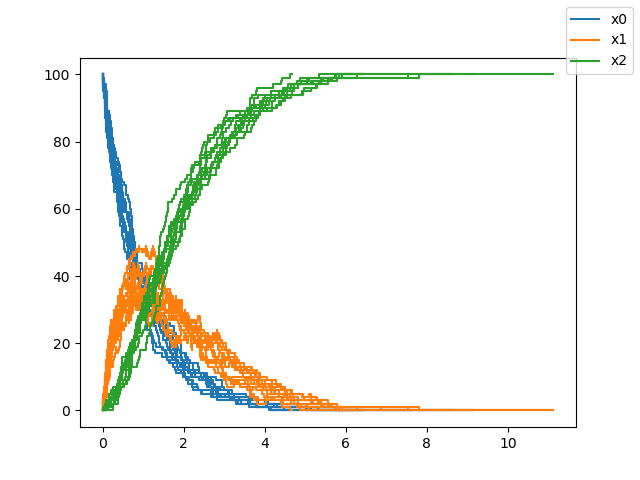
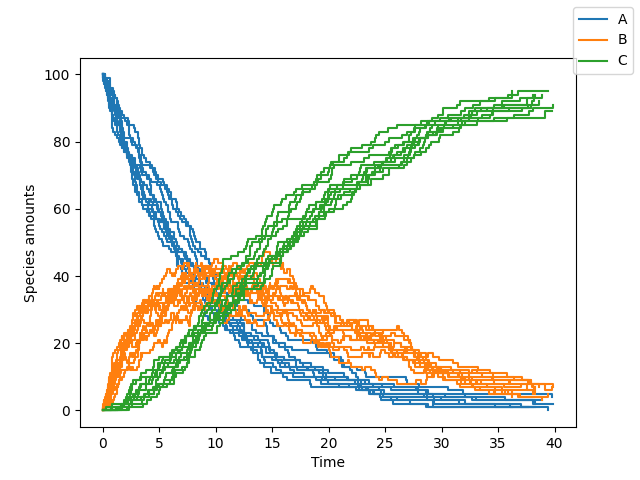
Docs: Update examples section

diff --git a/docs/examples.rst b/docs/examples.rst
@@ -14,18 +14,24 @@ Zero order system
 
 This can be coded up with::
 
-    >>> import numpy as np
     >>> from pyssa import Simulation
-    >>> V_r = np.array([[0]])
-    >>> V_p = np.array([[1]])
-    >>> X0 = np.array([100], dtype=np.int64)
-    >>> k_det = np.array([1.1])
-    >>> sim = Simulation(V_r, V_p, X0, k_det)
+    >>> model_str = """
+            const compartment comp1;
+            comp1 = 1.0; # volume of compartment
+
+            r1:  => A; k1;
+
+            k1 = 1.1;
+            chem_flag = false;
+
+            A = 100;
+        """
+    >>> sim = Simulation.load_model(model_str, "ModelString")
     >>> sim.simulate()
     >>> sim.plot()
 
 .. image:: ../docs/images/ex_0.png
-    :scale: 70%
+    :scale: 80%
     :align: center
     :alt: Plot of a zero order system.
 
@@ -42,28 +48,35 @@ First order system
 
 This can be coded up with::
 
-    >>> import numpy as np
     >>> from pyssa import Simulation
-    >>> V_r = np.array([[1], [0]])
-    >>> V_p = np.array([[0], [1]])
-    >>> X0 = np.array([100, 20], dtype=np.int64)
-    >>> k_det = np.array([1.1])
-    >>> sim = Simulation(V_r, V_p, X0, k_det)
+    >>> model_str = """
+            const compartment comp1;
+            comp1 = 1.0; # volume of compartment
+
+            r1: A => B; k1;
+
+            k1 = 1.1;
+            chem_flag = false;
+
+            A = 100;
+            B = 20;
+        """
+    >>> sim = Simulation.load_model(model_str, "ModelString")
     >>> sim.simulate()
     >>> sim.plot()
 
 .. image:: ../docs/images/ex_1a.png
-    :scale: 70%
+    :scale: 80%
     :align: center
     :alt: Plot of a first order system.
 
 Suppose you want to use the ``tau_leaping`` algorithm, run 20 repetitions and plot only species :math:`B`. Then do::
 
     >>> sim.simulate(algorithm="tau_leaping", n_rep=20)
-    >>> sim.plot(plot_indices=[1], names=["B"])
+    >>> sim.plot(species_names=["B"], new_names=["Species B"])
 
 .. image:: ../docs/images/ex_1b.png
-    :scale: 70%
+    :scale: 80%
     :align: center
     :alt: Plot of a first order system with more repetitions.
 
@@ -87,35 +100,61 @@ Enzyme kinetics (second order system with multiple reactions)
 
 This can be coded up with::
 
-    >>> import numpy as np
     >>> from pyssa import Simulation
-    >>> V_r = np.array([[1, 0, 0], [1, 0, 0], [0, 1, 1], [0, 0, 0]])
-    >>> V_p = np.array([[0, 1, 0], [0, 1, 1], [1, 0, 0], [0, 0, 1]])
-    >>> X0 = np.array([200, 50, 0, 0], dtype=np.int64)
-    >>> k_det = np.array([0.006, 0.005, 0.1])
-    >>> sim = Simulation(V_r, V_p, X0, k_det)
+    >>> model_str = """
+            const compartment comp1;
+            comp1 = 1.0; # volume of compartment
+
+            binding: S + E => SE; k1;
+            dissociation: SE => S + E; k2;
+            conversion: SE => P + E; k3;
+
+            k1 = 0.006;
+            k2 = 0.005;
+            k3 = 0.1;
+            chem_flag = false;
+
+            S = 200;
+            E = 50;
+            SE = 0;
+            P = 0;
+        """
+    >>> sim = Simulation.load_model(model_str, "ModelString")
     >>> sim.simulate(max_t=50, n_rep=10)
-    >>> sim.plot(names=["S", "E", "SE", "P"])
+    >>> sim.plot()
 
 .. image:: ../docs/images/ex_2a.png
-    :scale: 70%
+    :scale: 80%
     :align: center
     :alt: Plot of enzyme kinetics simulation.
 
 Since this is a second order system, the size of the system affects the reaction rates. What happens in a larger system? ::
 
-    >>> import numpy as np
     >>> from pyssa import Simulation
-    >>> V_r = np.array([[1, 0, 0], [1, 0, 0], [0, 1, 1], [0, 0, 0]])
-    >>> V_p = np.array([[0, 1, 0], [0, 1, 1], [1, 0, 0], [0, 0, 1]])
-    >>> X0 = np.array([200, 50, 0, 0], dtype=np.int64)
-    >>> k_det = np.array([0.006, 0.005, 0.1])
-    >>> sim = Simulation(V_r, V_p, X0, k_det, volume=5.0)
+    >>> model_str = """
+            const compartment comp1;
+            comp1 = 5.0; # volume of compartment
+
+            binding: S + E => SE; k1;
+            dissociation: SE => S + E; k2;
+            conversion: SE => P + E; k3;
+
+            k1 = 0.006;
+            k2 = 0.005;
+            k3 = 0.1;
+            chem_flag = false;
+
+            S = 200;
+            E = 50;
+            SE = 0;
+            P = 0;
+        """
+    >>> sim = Simulation.load_model(model_str, "ModelString")
     >>> sim.simulate(max_t=50, n_rep=10)
-    >>> sim.plot(names=["S", "E", "SE", "P"])
+    >>> sim.plot()
 
 .. image:: ../docs/images/ex_2b.png
-    :scale: 70%
+    :scale: 80%
     :align: center
     :alt: Plot of enzyme kinetics simulation with a larger volume.
 
